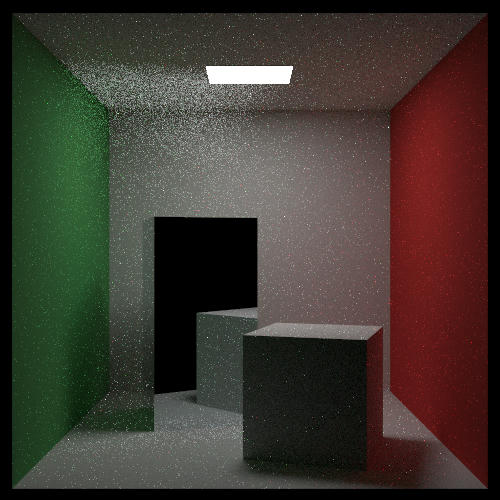
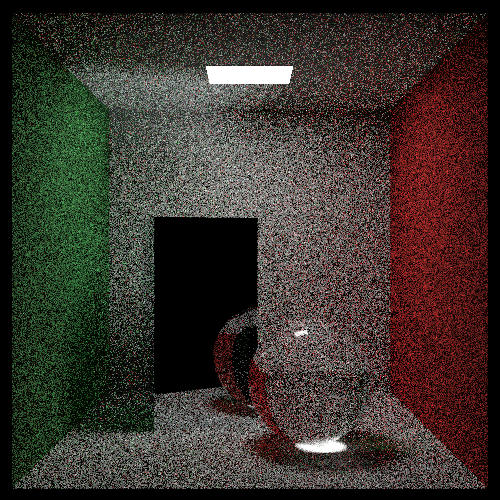
Finish Book3 12.4

diff --git a/raytracer/src/scene.rs b/raytracer/src/scene.rs
@@ -10,15 +10,12 @@ use crate::{
             cube::Cube,
             //   moving_sphere::MovingSphere,
             rectangle::Rectangle,
-            // sphere::Sphere,
+            sphere::Sphere,
         },
         HittableList,
     },
     material::{
-        // dielectric::Dielectric
-        diffuse_light::DiffuseLight,
-        lambertian::Lambertian,
-        metal::Metal,
+        dielectric::Dielectric, diffuse_light::DiffuseLight, lambertian::Lambertian, metal::Metal,
     },
     texture::solid_color::SolidColor,
 };
@@ -51,6 +48,7 @@ pub fn cornell_box_bvh(
     });
     let light = tp(DiffuseLight::new_from_color(RGBColor::new(15., 15., 15.)));
     let aluminum = tp(Metal::new(RGBColor::new(0.8, 0.85, 0.88), 0.));
+    let glass = tp(Dielectric::new(1.5));
 
     // Wall
     tmp_world.add(tp(Rectangle::new(1, 0., 555., 0., 555., 0., red)));
@@ -87,33 +85,25 @@ pub fn cornell_box_bvh(
     )))));
 
     // Cube
-    let cube1 = Cube::new(
+    let cube = Cube::new(
         Point3::new(0., 0., 0.),
         Point3::new(165., 330., 165.),
         aluminum,
     );
-
-    let cube2 = Cube::new(
-        Point3::new(0., 0., 0.),
-        Point3::new(165., 165., 165.),
-        white,
-    );
-
-    let moved_cube1 = Translate {
-        item: tp(RotateY::new(tp(cube1), 15.)),
+    let moved_cube = Translate {
+        item: tp(RotateY::new(tp(cube), 15.)),
         offset: Vec3::new(265., 0., 295.),
     };
+    tmp_world.add(tp(moved_cube));
 
-    let moved_cube2 = Translate {
-        item: tp(RotateY::new(tp(cube2), -18.)),
-        offset: Vec3::new(130., 0., 65.),
-    };
-
-    tmp_world.add(tp(moved_cube1));
-    tmp_world.add(tp(moved_cube2));
+    tmp_world.add(tp(Sphere::new(
+        Point3::new(190., 90., 190.),
+        90.,
+        glass.clone(),
+    )));
 
     world.add(tp(tmp_world));
     // world.add(tp(BvhNode::new_from_list(&tmp_world, 0., 1.)));
 
-    lights.add(tp(Rectangle::new(2, 213., 343., 227., 332., 554., light)));
+    lights.add(tp(Sphere::new(Point3::new(190., 90., 190.), 90., glass)));
 }

diff --git a/raytracer/src/hittable/object/sphere.rs b/raytracer/src/hittable/object/sphere.rs
@@ -1,12 +1,17 @@
-use std::{f64::consts::PI, sync::Arc};
+use std::{
+    f64::{consts::PI, INFINITY},
+    sync::Arc,
+};
 
 use super::super::{HitRecord, Hittable};
 
 use crate::{
     basic::{
         clamp_hoi,
+        onb::ONB,
         ray::Ray,
         vec3::{Point3, Vec3},
+        INFINITESIMAL,
     },
     bvh::aabb::AABB,
     material::Material,
@@ -82,5 +87,24 @@ impl Hittable for Sphere {
             self.cen - Vec3::new(self.r, self.r, self.r),
             self.cen + Vec3::new(self.r, self.r, self.r),
         ))
+    }
+
+    fn pdf_value(&self, orig: &Point3, dir: &Vec3) -> f64 {
+        if let Some(_hit_rec) = self.hit(&Ray::new(*orig, *dir, 0.), INFINITESIMAL, INFINITY) {
+            let cos_theta_max = (1. - self.r.powi(2) / (self.cen - *orig).length_squared()).sqrt();
+            let solid_angle = 2. * PI * (1. - cos_theta_max);
+
+            1. / solid_angle
+        } else {
+            0.
+        }
+    }
+
+    fn rand_dir(&self, orig: &Vec3) -> Vec3 {
+        let dir = self.cen - *orig;
+        let dis_sqrd = dir.length_squared();
+        let uvw = ONB::build_from_w(&dir);
+
+        uvw.local(&Vec3::rand_to_sphere(self.r, dis_sqrd))
     }
 }

diff --git a/raytracer/src/basic/vec3.rs b/raytracer/src/basic/vec3.rs
@@ -115,6 +115,19 @@ impl Vec3 {
         Vec3::new(x, y, z)
     }
 
+    pub fn rand_to_sphere(r: f64, dis_sqrd: f64) -> Vec3 {
+        let mut rnd: ThreadRng = rand::thread_rng();
+        let r1 = rnd.gen::<f64>();
+        let r2 = rnd.gen::<f64>();
+        let z = 1. + ((1. - r.powi(2) / dis_sqrd).sqrt() - 1.) * r2;
+
+        let phi = 2. * PI * r1;
+        let x = f64::cos(phi) * (1. - z.powi(2)).sqrt();
+        let y = f64::sin(phi) * (1. - z.powi(2)).sqrt();
+
+        Vec3::new(x, y, z)
+    }
+
     pub fn reflect(v: &Vec3, n: &Vec3) -> Vec3 {
         (*v) - (*n) * Vec3::dot(&v, &n) * 2.
     }

diff --git a/raytracer/src/main.rs b/raytracer/src/main.rs
@@ -88,7 +88,7 @@ fn main() {
     );
     let begin_time = Instant::now();
 
-    const THREAD_NUMBER: usize = 5;
+    const THREAD_NUMBER: usize = 8;
 
     // Image
     const ASPECT_RATIO: f64 = 1.;

diff --git a/raytracer/src/hittable/object/mod.rs b/raytracer/src/hittable/object/mod.rs
@@ -2,4 +2,4 @@
 pub mod cube;
 // pub mod moving_sphere;
 pub mod rectangle;
-// pub mod sphere;
+pub mod sphere;
